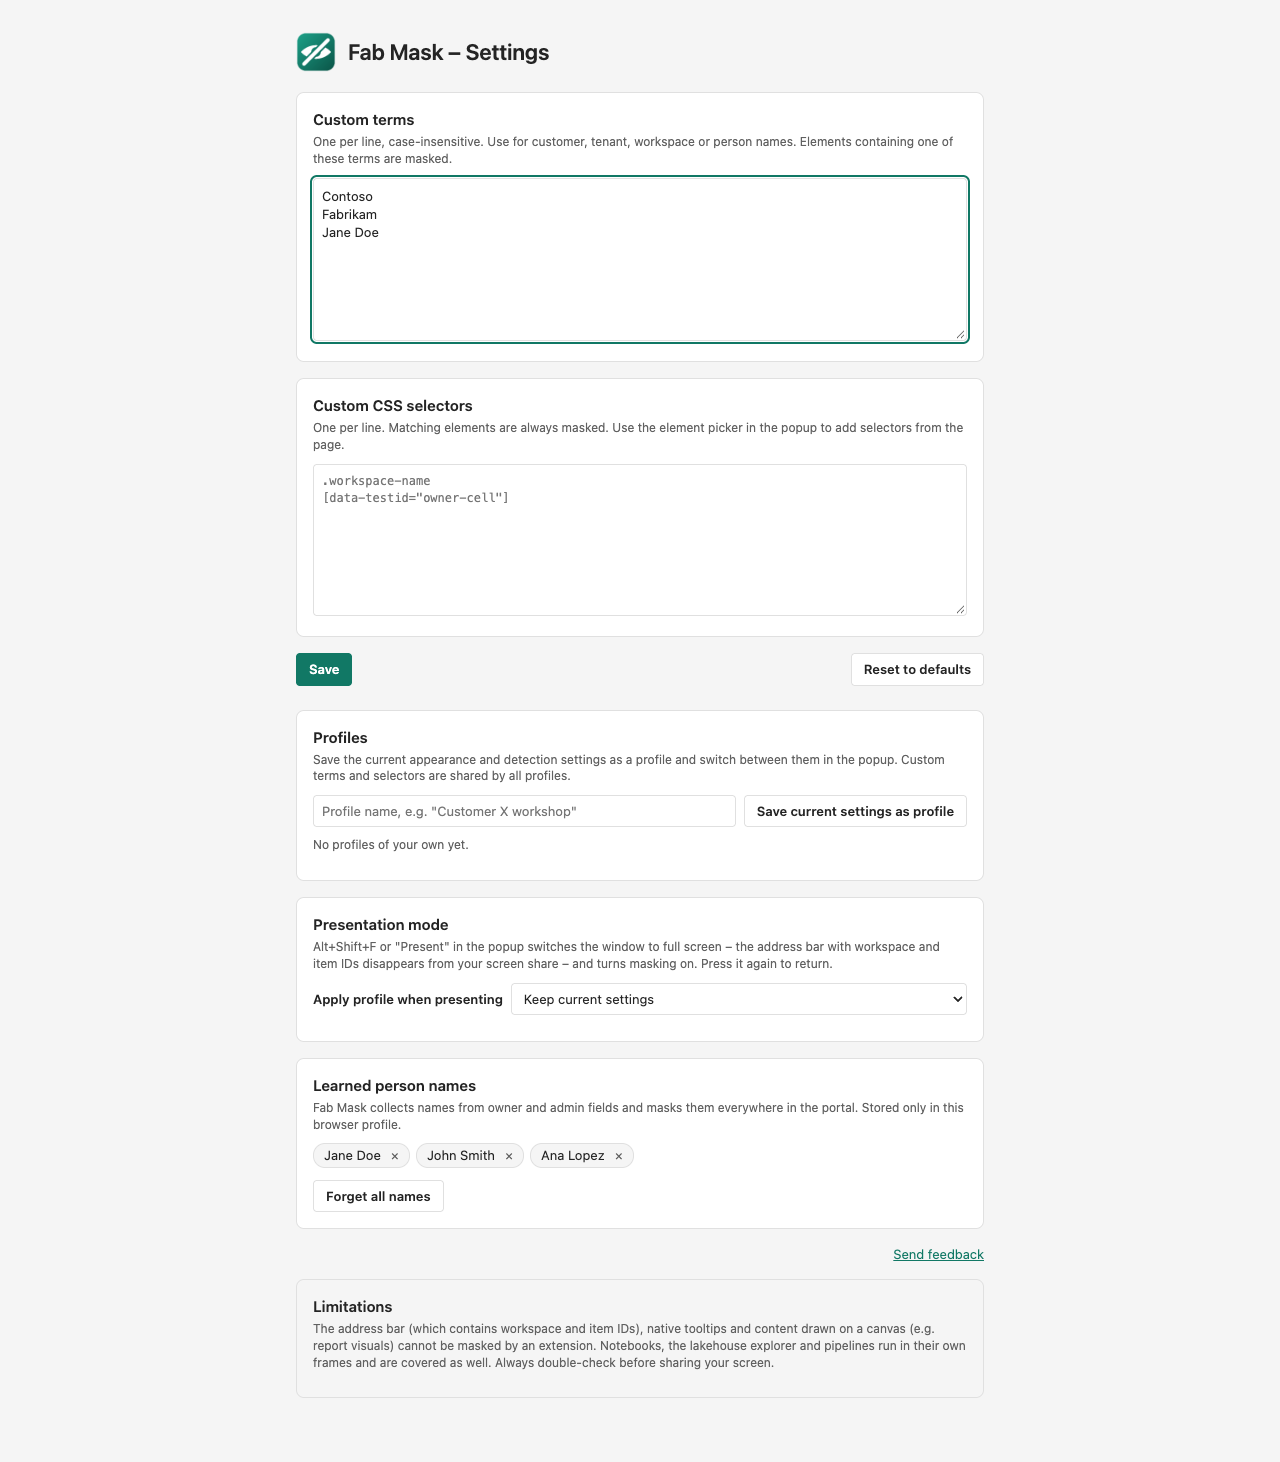
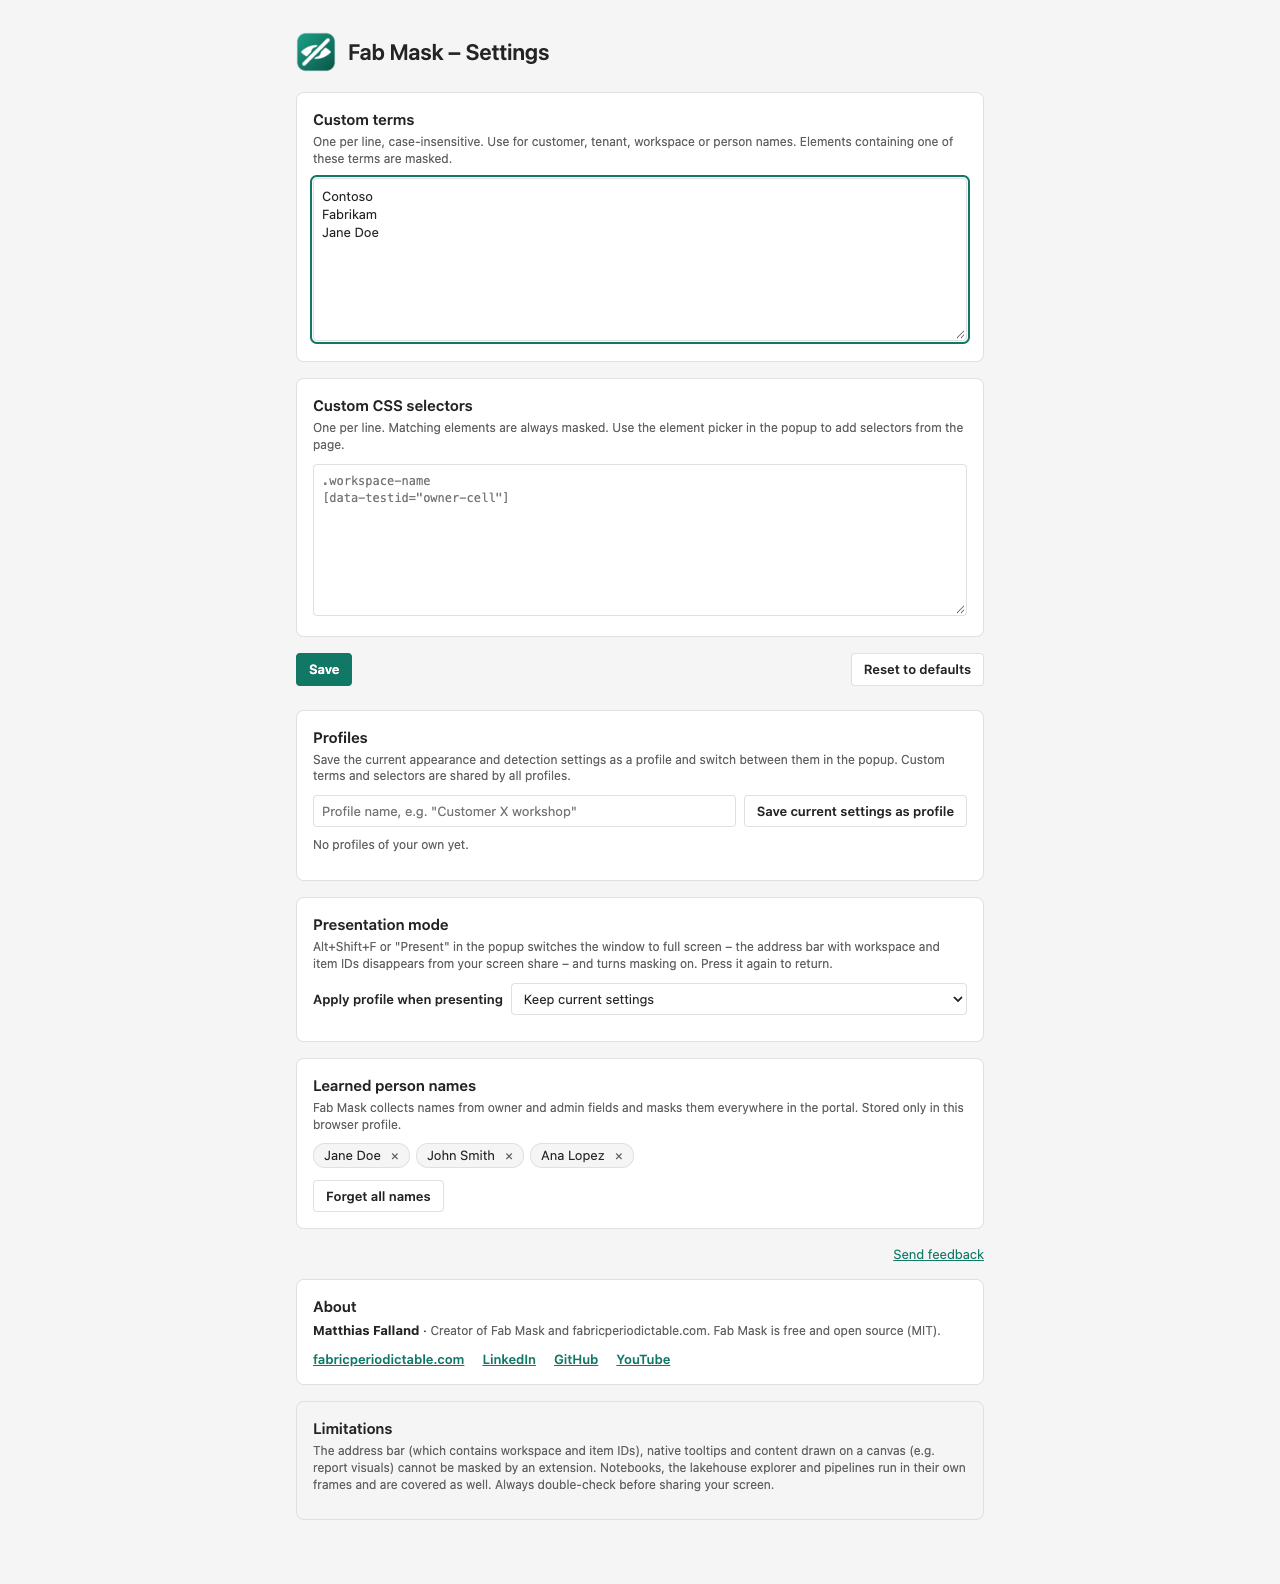
feat: author credits
- Options page "About" section with links to fabricperiodictable.com,
  LinkedIn, GitHub and YouTube (open in a new tab)
- "by Matthias Falland" in the popup footer, linking to it
- README author section, manifest author, store listing developer

diff --git a/src/options/options.html b/src/options/options.html
@@ -68,6 +68,17 @@
       <a href="#" id="feedback" data-i18n="sendFeedback" data-i18n-title="sendFeedbackHint"></a>
     </p>
 
+    <section class="card about" id="about">
+      <h2 data-i18n="aboutTitle"></h2>
+      <p><strong>Matthias Falland</strong> · <span class="muted" data-i18n="aboutText"></span></p>
+      <ul class="about-links">
+        <li><a href="https://www.fabricperiodictable.com" target="_blank" rel="noopener noreferrer">fabricperiodictable.com</a></li>
+        <li><a href="https://www.linkedin.com/in/matthias-falland" target="_blank" rel="noopener noreferrer">LinkedIn</a></li>
+        <li><a href="https://github.com/TheTrustedAdvisor" target="_blank" rel="noopener noreferrer">GitHub</a></li>
+        <li><a href="https://www.youtube.com/@TheTrustedAdvisor" target="_blank" rel="noopener noreferrer">YouTube</a></li>
+      </ul>
+    </section>
+
     <section class="card note">
       <h2 data-i18n="limitationsTitle"></h2>
       <p class="muted" data-i18n="limitationsText"></p>

diff --git a/src/popup/popup.js b/src/popup/popup.js
@@ -140,6 +140,12 @@
   $('page-status').textContent = FM.t(activeTabId !== null ? 'popupActiveHere' : 'popupNotFabric');
   $('pick').disabled = activeTabId === null;
 
+  $('about').addEventListener('click', async (e) => {
+    e.preventDefault();
+    await chrome.tabs.create({ url: chrome.runtime.getURL('options/options.html#about') });
+    window.close();
+  });
+
   $('feedback').addEventListener('click', async (e) => {
     e.preventDefault();
     const url = FM.feedback.feedbackUrl({ version: chrome.runtime.getManifest().version, settings });

diff --git a/src/options/options.css b/src/options/options.css
@@ -42,3 +42,7 @@ textarea.mono { font-family: ui-monospace, "Cascadia Code", Consolas, monospace;
 }
 
 .feedback-row { margin: 0 0 16px; text-align: right; }
+
+.about p { margin: 4px 0 10px; }
+.about-links { list-style: none; margin: 0; padding: 0; display: flex; flex-wrap: wrap; gap: 8px 18px; }
+.about-links a { font-weight: 600; }

diff --git a/src/popup/popup.css b/src/popup/popup.css
@@ -59,3 +59,6 @@ select {
   flex: 1.6; min-width: 0; padding: 5px 8px; border-radius: 4px; border: 1px solid var(--fm-border);
   background: var(--fm-bg); color: var(--fm-text); font: inherit;
 }
+
+.footer #about { color: var(--fm-muted); text-decoration: none; font-size: 12px; }
+.footer #about:hover { text-decoration: underline; }

diff --git a/src/popup/popup.html b/src/popup/popup.html
@@ -84,6 +84,7 @@
 
   <footer class="footer">
     <a href="#" id="open-options" data-i18n="moreSettings"></a>
+    <a href="#" id="about" class="muted" data-i18n="byAuthor"></a>
     <a href="#" id="feedback" data-i18n="sendFeedback" data-i18n-title="sendFeedbackHint"></a>
   </footer>
 

diff --git a/CHANGELOG.md b/CHANGELOG.md
@@ -2,6 +2,13 @@
 
 All notable changes to this project are documented here. Versions follow [SemVer](https://semver.org/).
 
+## [1.3.3] – 2026-10-05
+
+### Added
+- Credits: "About" section on the options page (Matthias Falland · fabricperiodictable.com ·
+  LinkedIn · GitHub · YouTube), "by Matthias Falland" in the popup footer, author section in the
+  README and `author` in the manifest.
+
 ## [1.3.2] – 2026-10-05
 
 ### Fixed
@@ -116,6 +123,7 @@ First release.
 - Popup and options page in English and German, light and dark theme.
 - Signed CRX + `updates.xml` for policy-based deployment (Chrome & Edge).
 
+[1.3.3]: https://github.com/TheTrustedAdvisor/fab-mask/releases/tag/v1.3.3
 [1.3.2]: https://github.com/TheTrustedAdvisor/fab-mask/releases/tag/v1.3.2
 [1.3.1]: https://github.com/TheTrustedAdvisor/fab-mask/releases/tag/v1.3.1
 [1.3.0]: https://github.com/TheTrustedAdvisor/fab-mask/releases/tag/v1.3.0

diff --git a/README.md b/README.md
@@ -164,6 +164,18 @@ and Monaco stable.
    `updates.xml` and publishes them as a GitHub release. Browsers installed via policy update
    automatically.
 
+## Author
+
+Fab Mask is built by **Matthias Falland**.
+
+- 🌐 [fabricperiodictable.com](https://www.fabricperiodictable.com)
+- 💼 [LinkedIn: matthias-falland](https://www.linkedin.com/in/matthias-falland)
+- 🐙 [GitHub: TheTrustedAdvisor](https://github.com/TheTrustedAdvisor)
+- ▶ [YouTube: TheTrustedAdvisor](https://www.youtube.com/@TheTrustedAdvisor)
+
+Feedback and ideas are welcome – use **Send feedback** in the extension or open an
+[issue](https://github.com/TheTrustedAdvisor/fab-mask/issues).
+
 ## License
 
 [MIT](LICENSE) © Matthias Falland. "Microsoft Fabric" and "Power BI" are trademarks of Microsoft

diff --git a/docs/store-listing.md b/docs/store-listing.md
@@ -9,6 +9,7 @@ Everything needed to submit `fab-mask-<version>.zip` from the GitHub release.
 | Category | Productivity / Developer Tools | Productivity / Developer tools |
 | Privacy policy URL | <https://github.com/TheTrustedAdvisor/fab-mask/blob/main/PRIVACY.md> | same |
 | Support / homepage | <https://github.com/TheTrustedAdvisor/fab-mask> | same |
+| Developer | Matthias Falland – <https://www.fabricperiodictable.com> | same |
 | Screenshots (1280×800) | `docs/images/store/portal-unmasked-1280x800.png`, `portal-pixelate-1280x800.png`, `portal-fake-1280x800.png`, `portal-preview-1280x800.png` | same |
 | Small promo tile | optional | optional |
 
